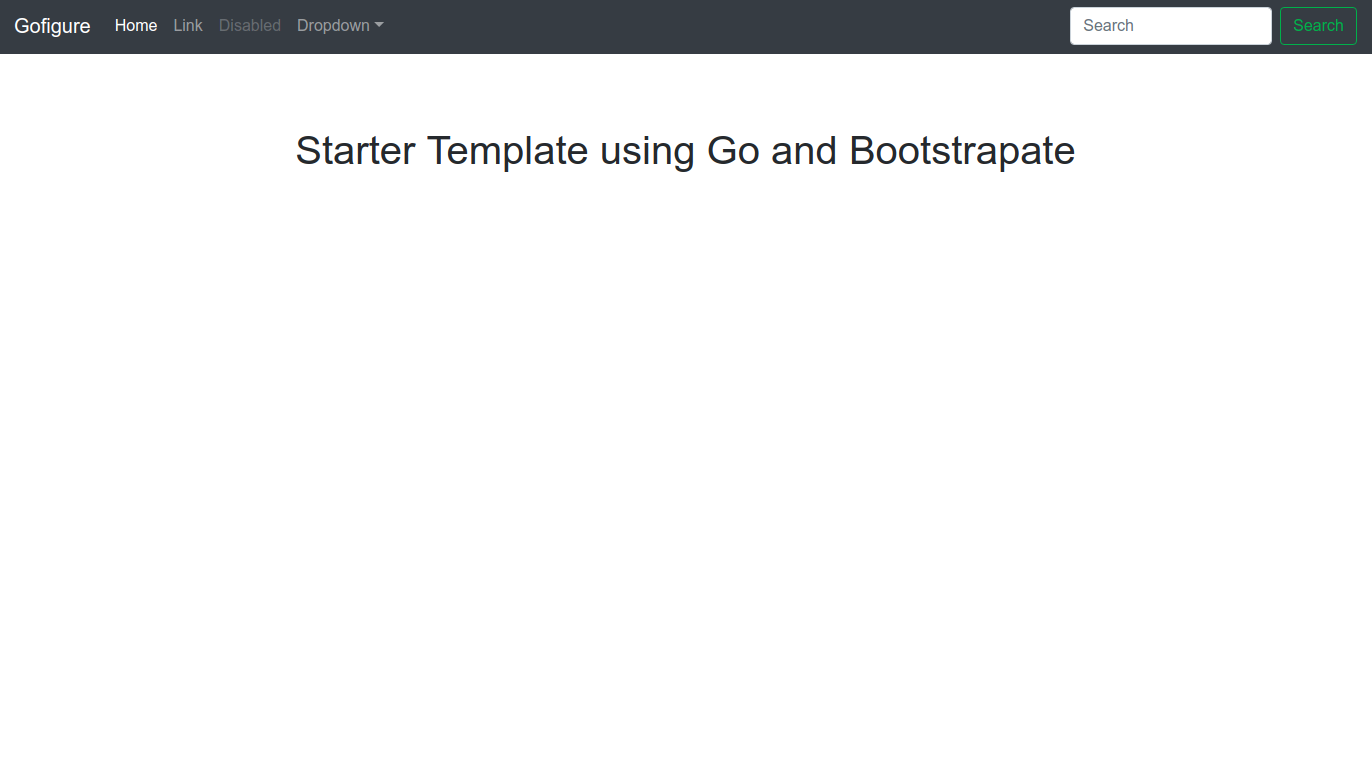
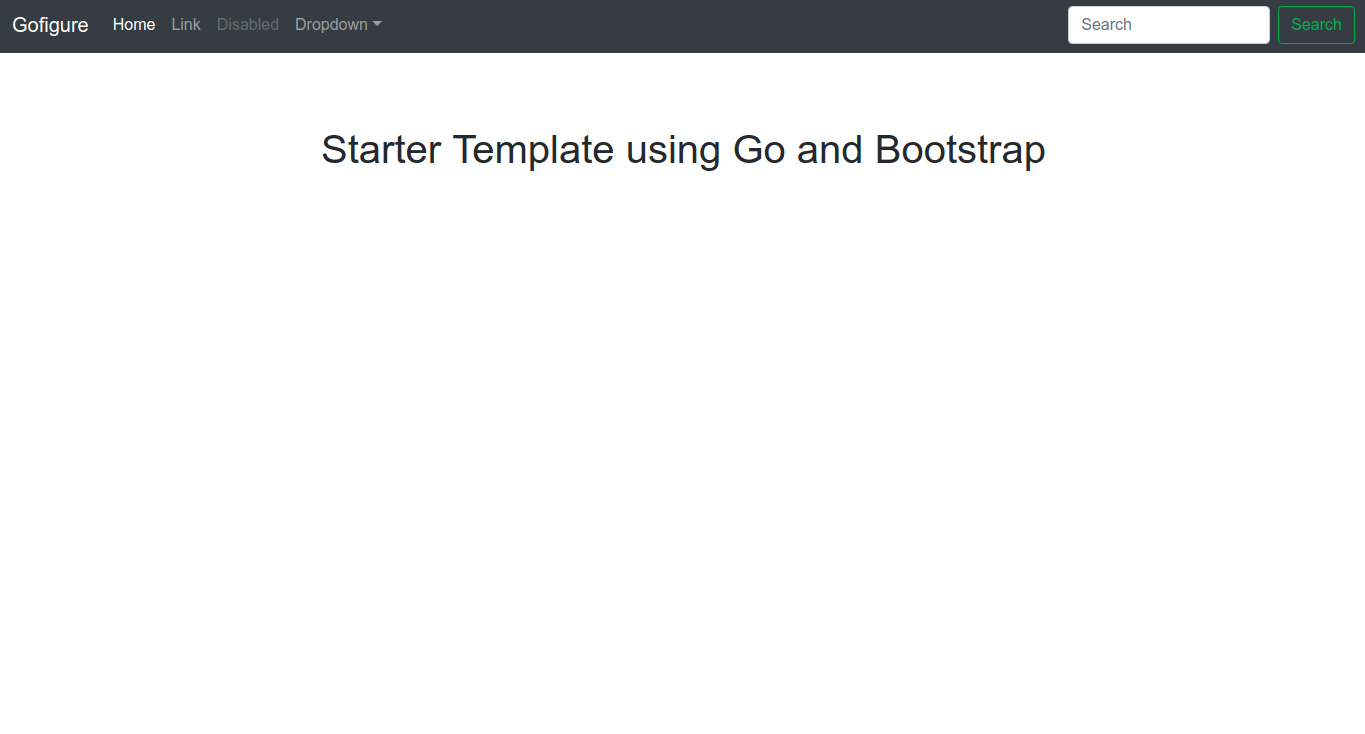
Fixes type on home page

diff --git a/static/index.html b/static/index.html
@@ -55,7 +55,7 @@
     <main role="main" class="container">
 
       <div class="starter-template">
-        <h1>Starter Template using Go and Bootstrapate</h1>
+        <h1>Starter Template using Go and Bootstrap</h1>
       </div>
 
     </main><!-- /.container -->
